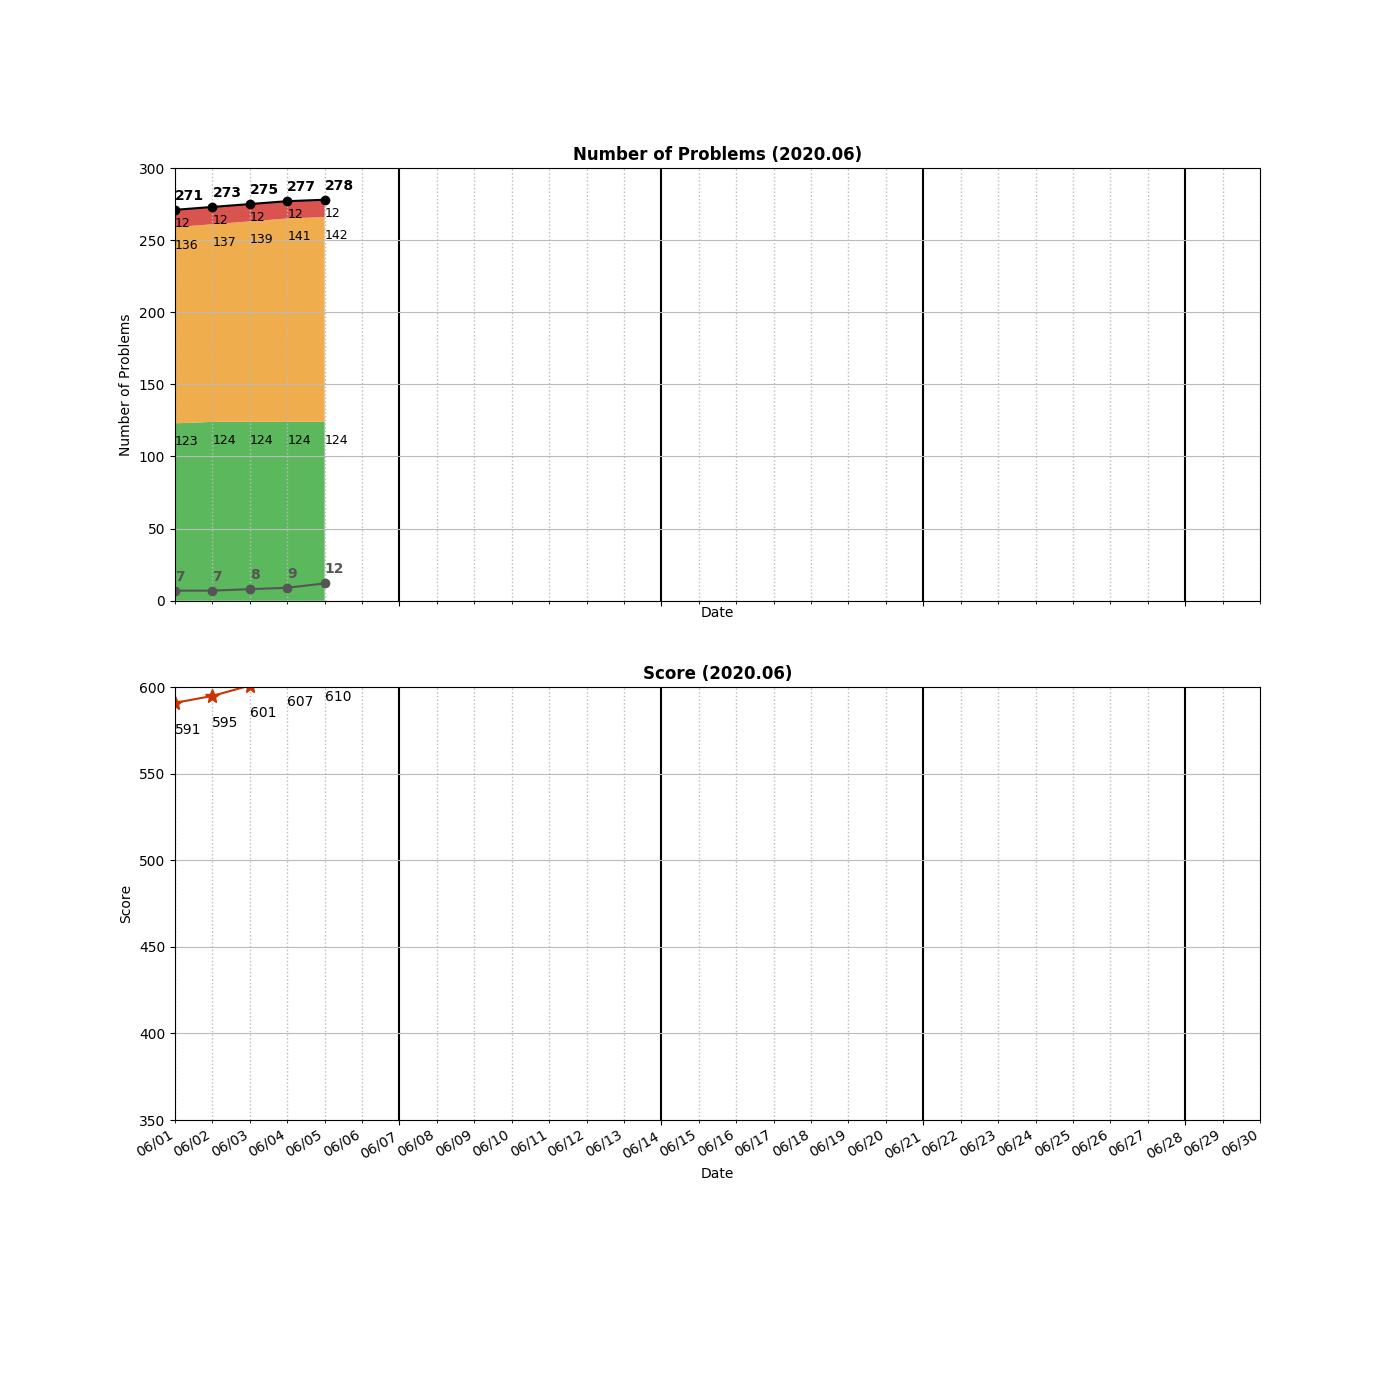
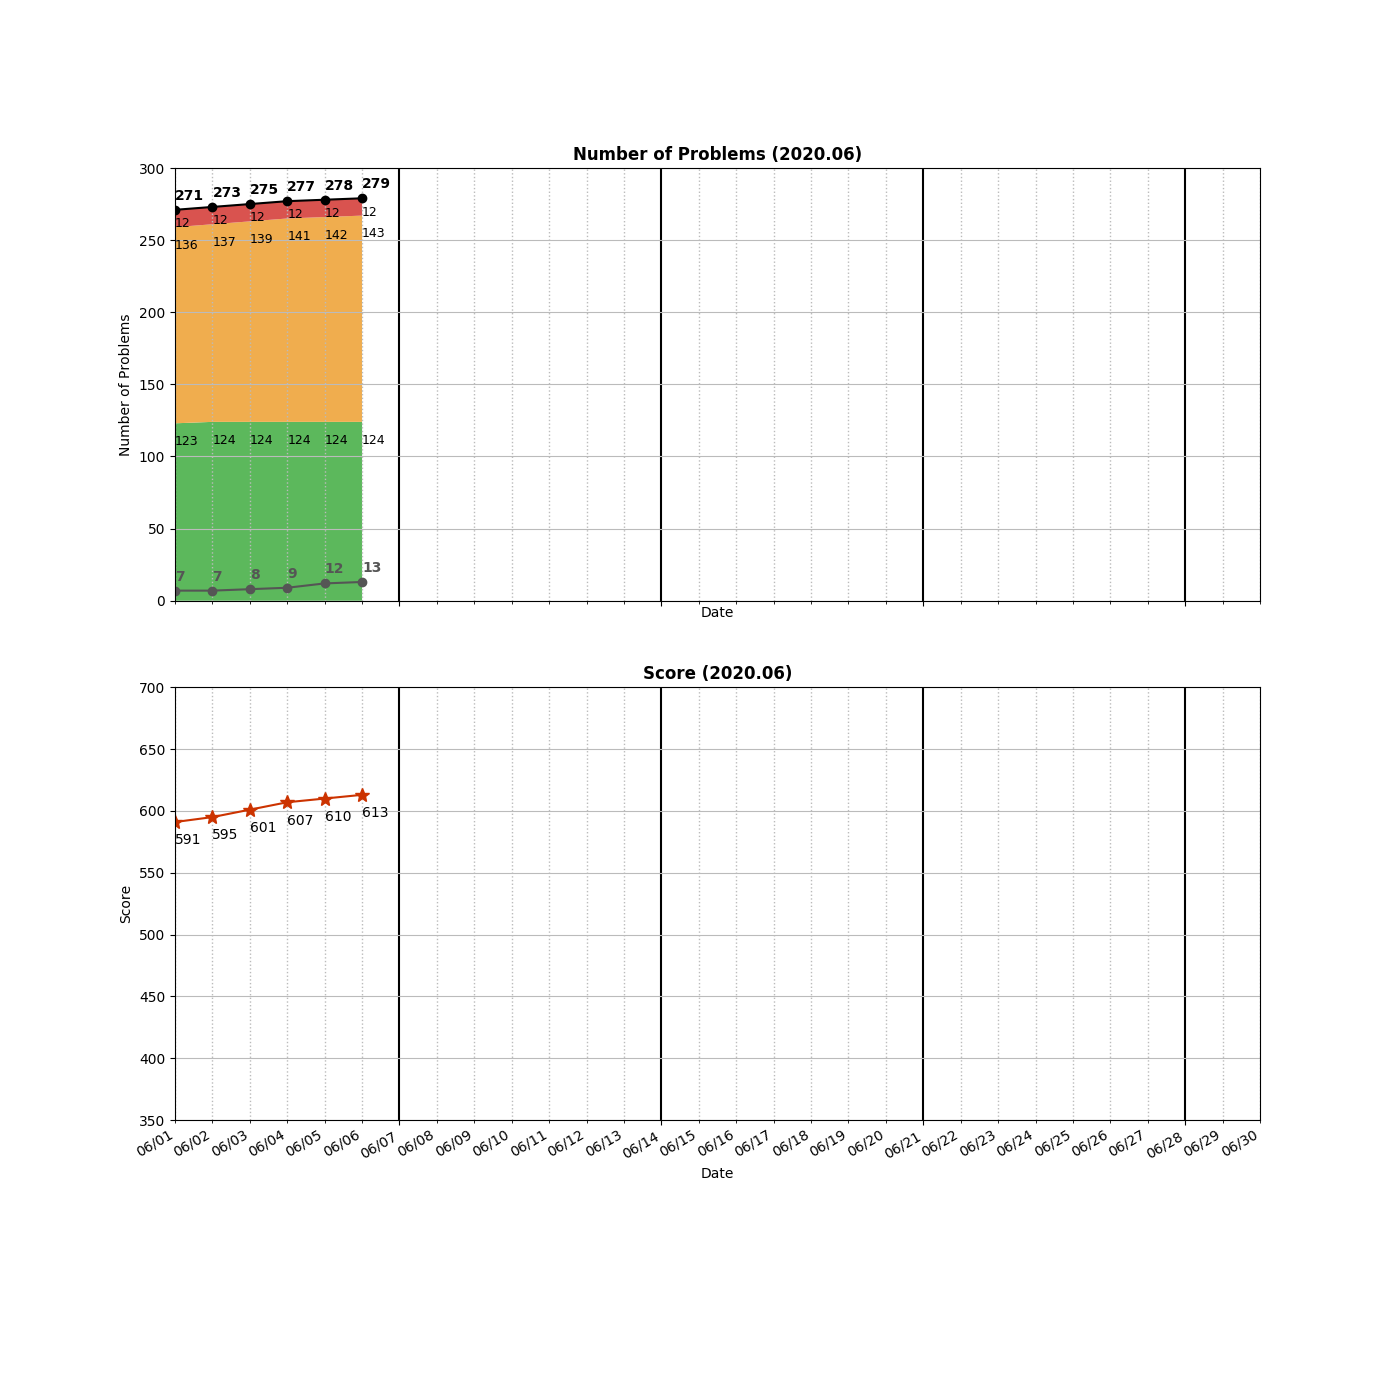
Updated statistics

diff --git a/algodraw.py b/algodraw.py
@@ -173,7 +173,7 @@ def draw(dates, values):
         title="Score (2020.04)")
     #ax2.set_xlim(datetime.datetime(2020,4,1), datetime.datetime(2020,4,30)) 
     axs[1].set_title("Score (2020.04)", fontweight = 'bold')
-    axs[1].set_ylim(350,600) #score of quiz
+    axs[1].set_ylim(350,700) #score of quiz
     axs[1].grid(which='major', color='k', axis ='x', linestyle='-', linewidth=1.5)
     axs[1].grid(which='minor', color='#bbbbbb', axis ='x', linestyle=':', linewidth=1)
     axs[1].grid(which='major', color='#bbbbbb', axis ='y')

diff --git a/README.md b/README.md
@@ -181,6 +181,7 @@ algo
 │   ├── _0083_RemoveDuplicatesFromSortedList.py
 │   ├── _0086_PartitionList.py
 │   ├── _0092_ReverseLinkedList2.py
+│   ├── _0138_CopyListWithRandomPointer.py
 │   ├── _0141_LinkedListCycle.py
 │   ├── _0142_LinkedListCycle2.py
 │   ├── _0143_ReorderList.py
@@ -301,7 +302,7 @@ algo
     ├── _0127_WordLadder_TLE.py
     └── _0127_WordLadder_wrong.py
 
-24 directories, 276 files
+24 directories, 277 files
 
 =====================================
 ============= Local Repo ============
@@ -399,6 +400,7 @@ _0129_SumRootToLeafNumbers.py
 _0131_PalindromePartitioning.py
 _0133_CloneGraph.py
 _0134_GasStation.py
+_0138_CopyListWithRandomPointer.py
 _0139_WordBreak.py
 _0141_LinkedListCycle.py
 _0142_LinkedListCycle2.py
@@ -582,7 +584,7 @@ _1358_NumberOfSubstringsContainingAllThreeCharacters.py
 _1391_CheckIfThereIsAValidPathInAGrid.py
 _1427_PerformStringShifts.py
 =====================================
-Num of Python Practice:  275
+Num of Python Practice:  276
 
 
 =====================================
@@ -680,6 +682,7 @@ Num of Python Practice:  275
  0133 Clone Graph
  0134 Gas Station
  0136 Single Number
+ 0138 Copy List with Random Pointer
  0139 Word Break
  0141 Linked List Cycle
  0142 Linked List Cycle II
@@ -868,10 +871,10 @@ Num of Python Practice:  275
  1427 Perform String Shifts
 =====================================
 Solved / Total (Easy)  :  124 /  411
-Solved / Total (Medium):  142 /  751
+Solved / Total (Medium):  143 /  751
 Solved / Total (Hard)  :   12 /  307
-Solved / Total (All)   :  278 / 1469
-Total Score            :  610
+Solved / Total (All)   :  279 / 1469
+Total Score            :  613
 =====================================
 
 ```
